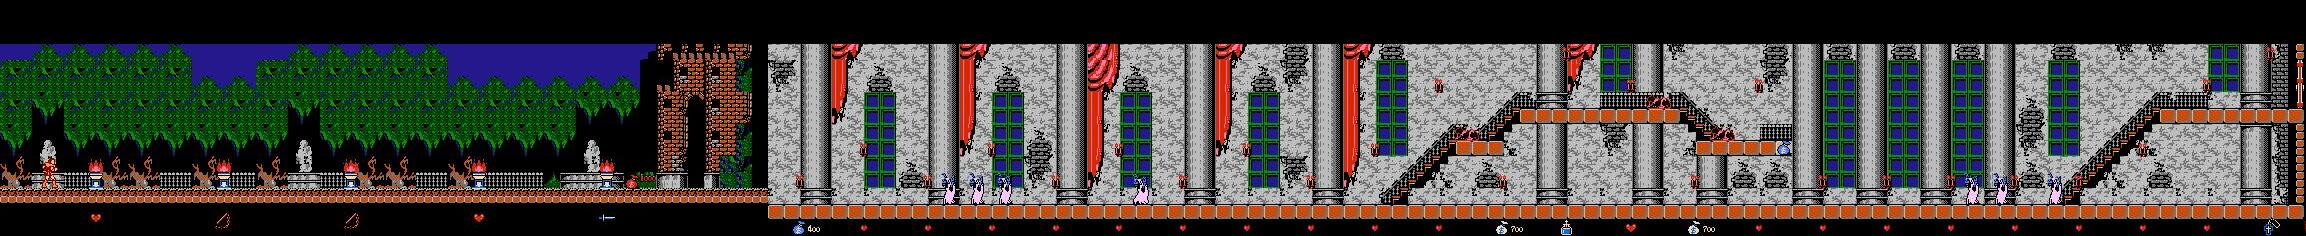
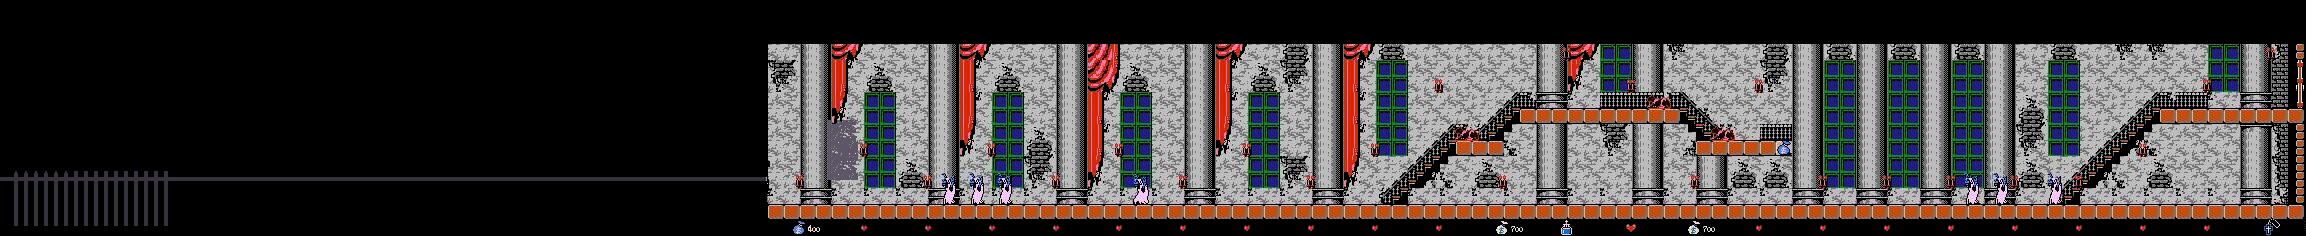
Tutorial + Started working on the background
Vleh vleh vleh. I wanna make Dracula laugh but can't recreate

diff --git a/Game/src/main.c b/Game/src/main.c
@@ -55,7 +55,8 @@ typedef enum GameState {
     PLAYING,
     GAMEOVER,
     WIN,
-    EXIT
+    EXIT,
+    TUTORIAL
 } GameState;
 
 // Estructura para animaciones (personaje y enemigo)
@@ -241,6 +242,8 @@ int main() {
     PlayMusicStream(musicaFondo);
     PlayMusicStream(Stage01);
     
+    bool TutorialStart = false;
+    float Tick = 0;
 
     // ------------------ Variables del jugador -----------------
     float playerX, playerY;
@@ -271,6 +274,7 @@ int main() {
     float Warning = 2.0f;
     Timer Collection = { 0 };
     Timer Tutorial = { 0 };
+    
     // ------------------ Cámara -----------------
     Camera2D camera = { 0 };
     
@@ -317,13 +321,9 @@ int main() {
             }
             if (IsKeyPressed(KEY_ENTER)) {
                 if (menuSelection == 0) {
-                    gameState = PLAYING;
-                    ResetGame(&playerX, &playerY, &velocityY, &isGrounded,
-                        &canMove, &isJumping, &jumpDirection,
-                        &verticalSpeed, &horizontalSpeed,
-                        &enemyX, &enemyY, &playerActive, &direction,
-                        &isDucking, &isAttacking,
-                        &camera, SCREEN_WIDTH, SCREEN_HEIGHT);
+                    gameState = TUTORIAL;
+                   
+                    TutorialStart = true;
                 }
                 else if (menuSelection == 1) {
                     gameState = EXIT;
@@ -335,13 +335,9 @@ int main() {
             if (CheckCollisionPointRec(mousePos, playBtn)) {
                 menuSelection = 0;
                 if (IsMouseButtonPressed(MOUSE_BUTTON_LEFT)) {
-                    gameState = PLAYING;
-                    ResetGame(&playerX, &playerY, &velocityY, &isGrounded,
-                        &canMove, &isJumping, &jumpDirection,
-                        &verticalSpeed, &horizontalSpeed,
-                        &enemyX, &enemyY, &playerActive, &direction,
-                        &isDucking, &isAttacking,
-                        &camera, SCREEN_WIDTH, SCREEN_HEIGHT);
+                    gameState = TUTORIAL;
+                
+                    TutorialStart = true;
                 }
             }
             else if (CheckCollisionPointRec(mousePos, exitBtn)) {
@@ -358,10 +354,46 @@ int main() {
             CloseIt = true;
         }
 
+        case TUTORIAL:
+        {
+            //Dibujar TUTORIAL
+            playerX = 0;
+            if (TutorialStart)
+            {
+                StartTimer(&Tutorial, 6.0f);
+                TutorialStart = false;
+            }
+            UpdateTimer(&Tutorial);
+            if (!TimerDone(&Tutorial))
+            {
+                Tick += 0.1f;
+                DrawTextureEx(DRACULA, (Vector2) { (SCREEN_WIDTH - 120) / 2, SCREEN_HEIGHT / 2 - 60}, 0, 2, WHITE);
+
+                if (Tick >= 20.0f)
+                {
+                    DrawText("You only have one life.\nI hope you fail.", (SCREEN_WIDTH - 250) / 2, SCREEN_HEIGHT / 2+50, 20, RED);
+                }
+                else
+                {
+                    DrawText("You can press E to attack.\nYou can crouch with Shift.", (SCREEN_WIDTH - 250) / 2, SCREEN_HEIGHT / 2+50, 20, RED);
+                }
+
+            }
+            if (TimerDone(&Tutorial))
+            {
+                ResetGame(&playerX, &playerY, &velocityY, &isGrounded,
+                    &canMove, &isJumping, &jumpDirection,
+                    &verticalSpeed, &horizontalSpeed,
+                    &enemyX, &enemyY, &playerActive, &direction,
+                    &isDucking, &isAttacking,
+                    &camera, SCREEN_WIDTH, SCREEN_HEIGHT);
+                gameState = PLAYING;
+            }
+        }
+
         case PLAYING: {
             if (Music01)
             {
-                
                 UpdateMusicStream(Stage01);
             }
 
@@ -685,15 +717,15 @@ int main() {
             int titleFontSize = 30;
             int titleWidth = MeasureText(title, titleFontSize);
             DrawText(title, (SCREEN_WIDTH - titleWidth) / 2, SCREEN_HEIGHT / 2 - 80, titleFontSize, RED);
-            const char* playText = "Play";
-            const char* exitText = "Exit";
+            const char* playText = "Enter ?\n ";
+            const char* exitText = "Run Away \n[Coward.]";
             int optionFontSize = 30;
             int playWidth = MeasureText(playText, optionFontSize);
             int exitWidth = MeasureText(exitText, optionFontSize);
             Color playColor = (menuSelection == 0) ? YELLOW : WHITE;
             Color exitColor = (menuSelection == 1) ? YELLOW : WHITE;
             DrawText(playText, (SCREEN_WIDTH - playWidth) / 2, SCREEN_HEIGHT / 2 - 20, optionFontSize, playColor);
-            DrawText(exitText, (SCREEN_WIDTH - exitWidth) / 2, SCREEN_HEIGHT / 2 + 20, optionFontSize, exitColor);
+            DrawText(exitText, (SCREEN_WIDTH - exitWidth) / 2, SCREEN_HEIGHT / 2 + 30, optionFontSize, exitColor);
             const char* instr = "Use ARROWS and ENTER or click";
             int instrFontSize = 15;
             int instrWidth = MeasureText(instr, instrFontSize);
@@ -790,14 +822,6 @@ int main() {
                 DrawTextureEx(Item2, (Vector2) { 250 + playerX, 400 }, 0, 1, WHITE);
             }
             
-            //Dibujar TUTORIAL
-            
-            UpdateTimer(&Tutorial);
-            if (!TimerDone(&Tutorial))
-            {
-                DrawTextureEx(DRACULA, (Vector2) { playerX - 150, 400 }, 0, 1, WHITE);
-            }
-           
             
 
             //Dibujar Arma 02
@@ -811,15 +835,16 @@ int main() {
                 {
                     StartTimer(&Collection, Warning);
                     CollectStar = true;
+                    Tick = 0;
                 }
             }
 
             UpdateTimer(&Collection);
-            int Tick = 0;
+            
             if (!TimerDone(&Collection))
             {
-                
-                if (Tick / 2 == 0)
+                Tick += 0.1f;
+                if ((int)Tick % 2 == 0)
                 {
                     DrawRectangle(400, 358, MeasureText("PRESS 2!!!", 10), 10, BLACK);
                     DrawText("PRESS 2!!!", 400, 358, 10, RED);
@@ -829,28 +854,8 @@ int main() {
                     DrawRectangle(400, 358, MeasureText("PRESS 2!!!", 10), 10, BLACK);
                     DrawText("PRESS 2!!!", 400, 358, 10, WHITE);
                 }
-                Tick++;
             }
-            /*if (CollectStar == true)
-            {
-                int Width = MeasureText("PRESS 2!!!", 25);
-                int Allocate[100];
-                int j = 0;
-                for (int i = 0; i < 99; i++);
-                {
-                    Allocate[i] = j++;
-                    if (j / 2 == 0)
-                    {
-                        DrawText("PRESS 2!!!", 400, 358 + j, 25, RED);
-                    }
-                    else
-                        DrawText("PRESS 2!!!", 400, 358 + j, 25, WHITE);
-                }
-            }*/
-            
-            
-           
-            
+
 
             // Indicadores visuales de depuración (puedes comentarlos si no los necesitas)
             DrawLine(MAP_WIDTH * TILE_SIZE, 0, MAP_WIDTH * TILE_SIZE, MAP_HEIGHT * TILE_SIZE, WHITE);
@@ -866,7 +871,7 @@ int main() {
             int goWidth = MeasureText(gameOverText, goFontSize);
             DrawText(gameOverText, (SCREEN_WIDTH - goWidth) / 2, SCREEN_HEIGHT / 2 - 60, goFontSize, RED);
             const char* tryAgainText = "Try Again";
-            const char* exitText = "Exit";
+            const char* exitText = "PERISH";
             int optFontSize = 25;
             int tryAgainWidth = MeasureText(tryAgainText, optFontSize);
             int exitWidth = MeasureText(exitText, optFontSize);
